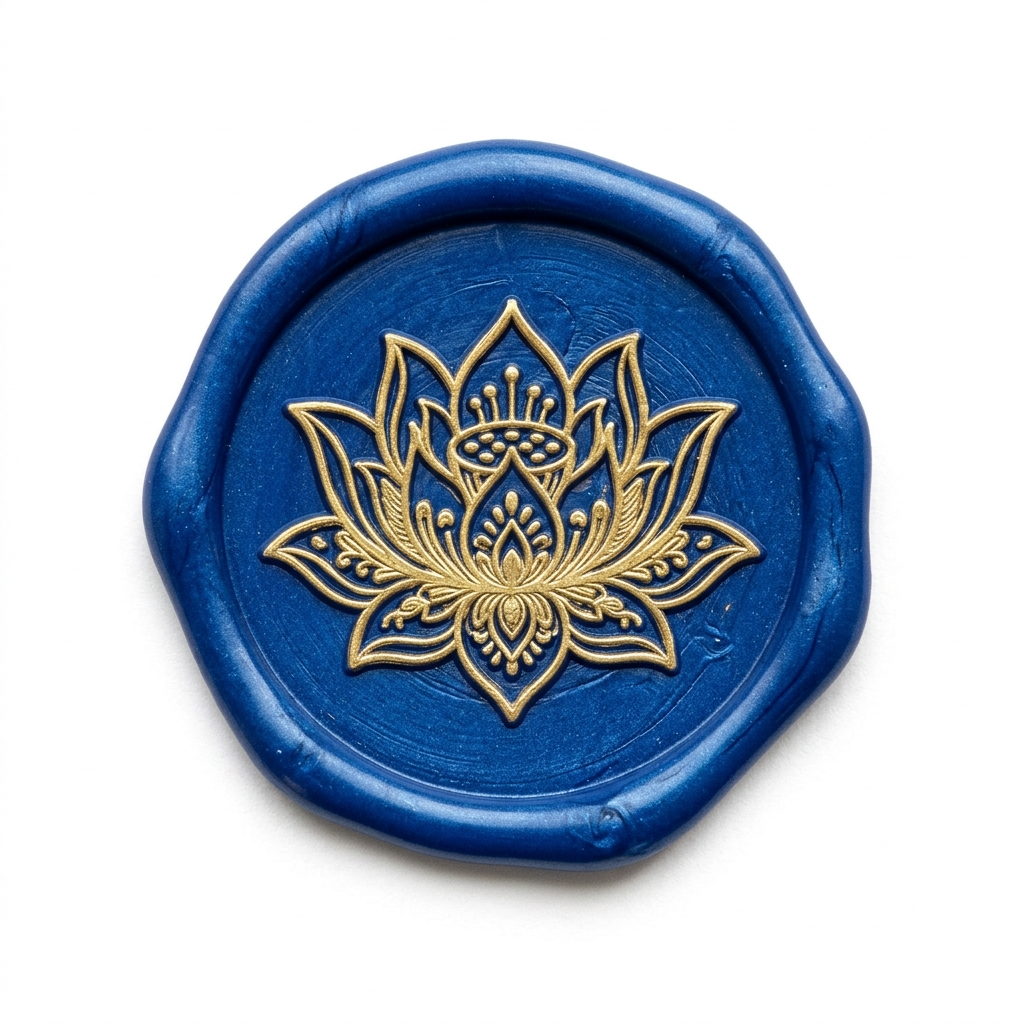
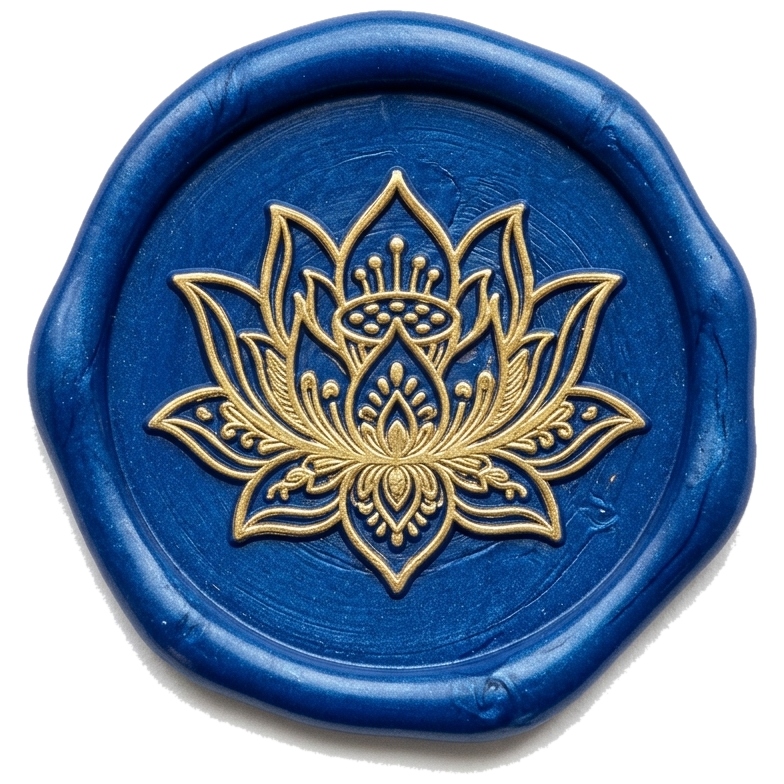
fix: make wax seal background fully transparent and remove white circular border

diff --git a/src/components/invite/EnvelopeGate.tsx b/src/components/invite/EnvelopeGate.tsx
@@ -277,22 +277,22 @@ export function EnvelopeGate({ onOpen }: { onOpen: () => void }) {
             >
               {/* Gold & blue glow behind wax seal */}
               <div
-                className="absolute inset-0 rounded-full"
+                className="absolute -inset-2 rounded-full pointer-events-none"
                 style={{
                   background:
-                    "radial-gradient(circle, rgba(235,190,95,0.5) 0%, rgba(26,60,115,0.2) 65%, transparent 100%)",
+                    "radial-gradient(circle, rgba(235,190,95,0.45) 0%, rgba(26,60,115,0.15) 60%, transparent 80%)",
                   animation: opening ? undefined : "glow-pulse 3s ease-in-out infinite",
                 }}
                 aria-hidden="true"
               />
 
-              {/* Authentic Royal Sapphire Wax Seal with Gold Lotus */}
+              {/* Authentic Royal Sapphire Wax Seal with Gold Lotus (Transparent) */}
               <img
                 src={waxSealSrc}
                 alt="Royal Blue lotus wax seal"
                 width={196}
                 height={196}
-                className="h-full w-full object-contain drop-shadow-[0_5px_12px_rgba(15,35,70,0.55)] rounded-full"
+                className="h-full w-full object-contain drop-shadow-[0_6px_14px_rgba(15,35,70,0.55)]"
               />
             </div>
           </div>
